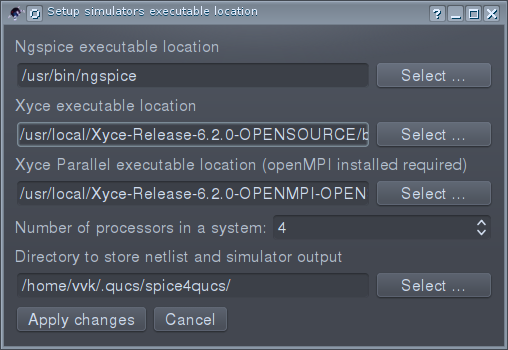
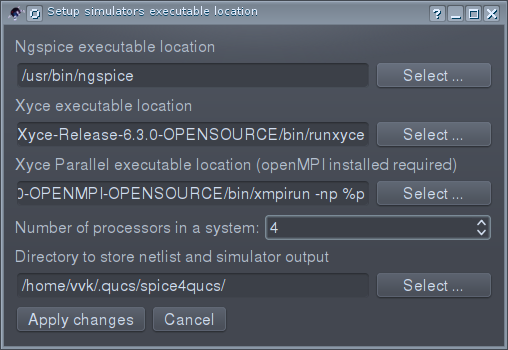
Added note on processor count definition for Xyce

diff --git a/source/BasSim.rst b/source/BasSim.rst
@@ -93,8 +93,25 @@ must also be entered from the keyboard or selected using the up-down arrow contr
 
 Figure 2.3. *Setup simulator executable locations* dialog. 
 
+
+It's need to note the method of Xyce Parallel executable definition. Xyce 
+parallel command line for binary Xyce-Parallel package has the following 
+format:
+
+``<Path_to_xyce_executable>/xmpirun -np %p``
+
+Where the number of processors will be substituted instead of ``%p`` wildcard.
+
+User builds of Xyce-Parallel have no ``xmpirun`` script. And you need to 
+construct command line by yourself. For example for ``opeMPI`` installed in 
+``/usr/bin`` and Xyce-Parallel installed in ``/usr/local/Xyce_Parallel`` command 
+line will be:
+
+``/usr/bin/mpirun -np %p /usr/local/Xyce_Parallel/bin/Xyce``
+
 You can also define directory where temporary simulator data and netlist will 
-be stored (simulator working directory).
+be stored (simulator working directory --- ``$HOME/.qucs/spice4qucs`` by 
+default).
 
 To simulate a Qucs schematic with the ngspice simulator, select simulator *ngspice* and press 
 the *Simulate* button shown in Figure 2.2. During simulation ngspice produces a 
